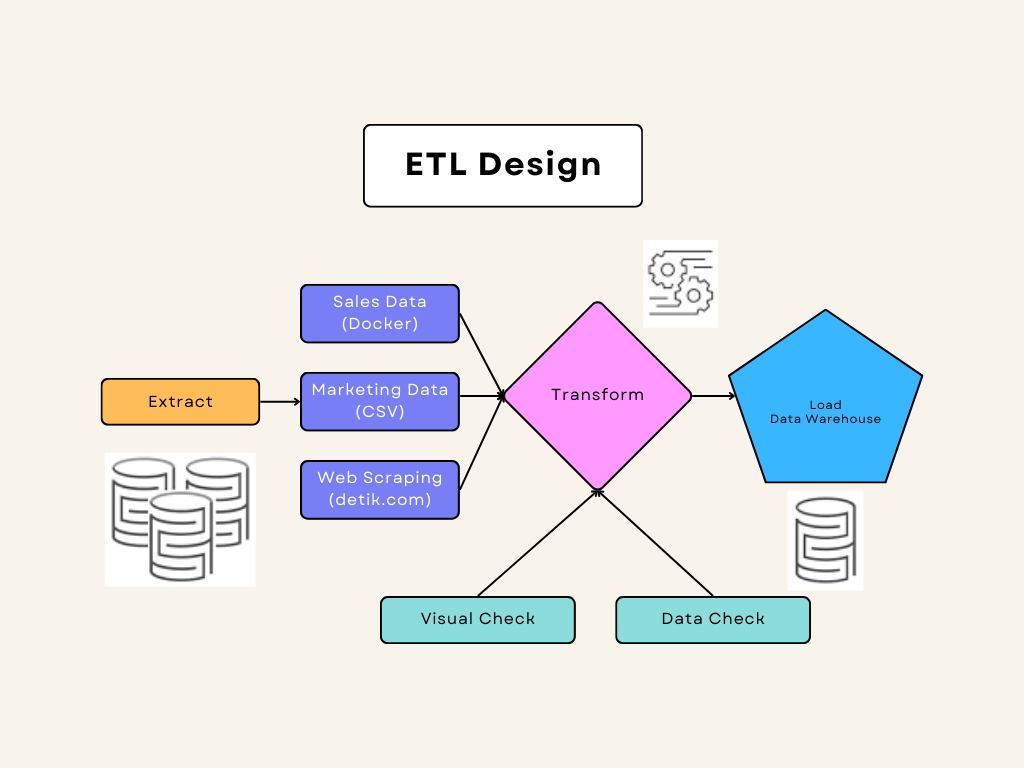
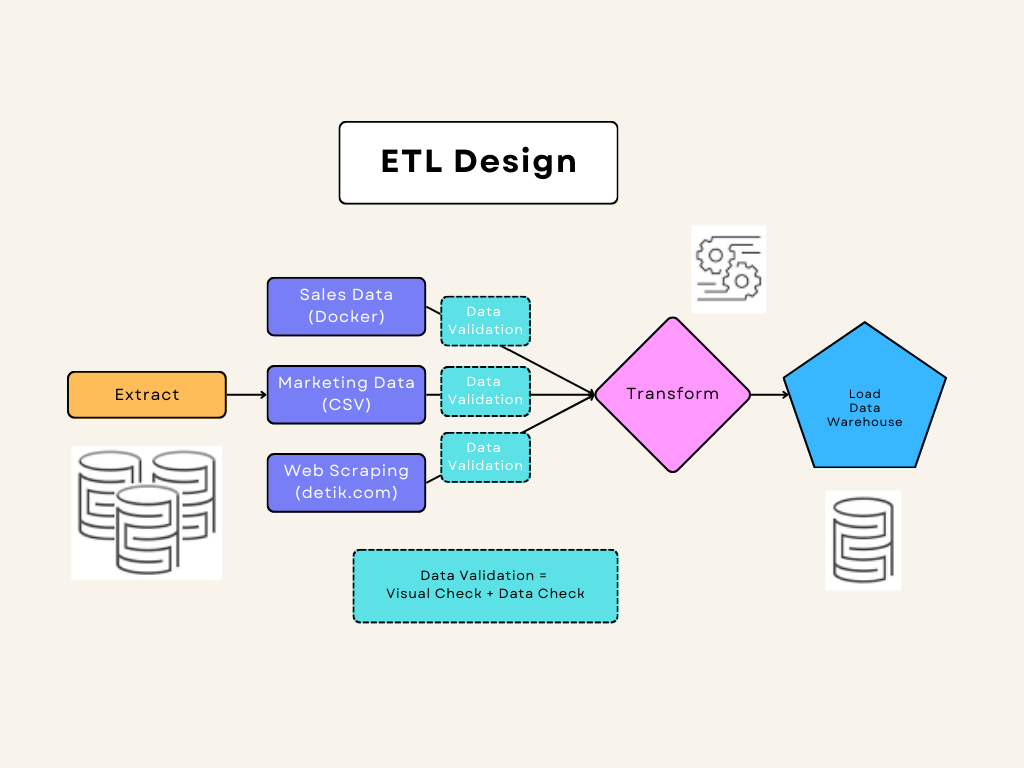
docs: :camera_flash:

diff --git a/readme.md b/readme.md
@@ -122,30 +122,50 @@ The Data Science Team needs article data from Detik for news trend and popularit
 ## Tools & Stack
 
 - **Python Libraries:**
-  - `Pandas` for data manipulation
-  - `SQLAlchemy` for database interaction
+  - `pandas` for data manipulation
+  - `sqlalchemy` for database interaction
   - `pangres` for upserting data
-  - `BeautifulSoup` and `requests` for web scraping
-  - `tqdm` for progress bars
+  - `beautifulsoup4` for web scraping
+  - `requests` for HTTP requests
+  - `psycopg2-binary` and `psycopg2` for PostgreSQL connection
+  - `python-dotenv` for environment variable management
+  - `datetime` for handling date and time operations
   - `luigi` for task orchestration
+  - `os` for operating system interactions
 
 - **Docker:** Runs the PostgreSQL database in a container.
 - **PostgreSQL:** Target database for storing data.
 
 ## Pipeline Design
 
+![Simple ETL Pipeline](Simple%20ETL%20Pipeline.png)
+
 1. **Extract**
    - Sales Data: From PostgreSQL database
    - Marketing Data: From CSV file
    - Web Articles: From Detik.com via web scraping
 
-2. **Transform**
-   - Clean and format sales data
-   - Normalize and de-duplicate marketing data
-   - Extract relevant fields from scraped articles
+2. **Validate**
+   - **Sales Data:** Check for inconsistencies, missing values, remove blank columns and correct formats.
+   - **Marketing Data:** Ensure data integrity, format consistency, remove blank columns and correctness.
+   - **Web Scraping Data:** Validate the completeness and accuracy of the scraped articles.
 
-3. **Load**
-   - Insert/Update all transformed data into PostgreSQL
+3. **Transform**
+   - **Sales Data:**
+     - Drop unnamed columns
+     - Clean price fields (remove symbols, convert to numeric)
+     - Fill missing values in price fields with 0
+   - **Marketing Data:**
+     - Remove 'prices.' prefix from column names
+     - Normalize availability (e.g., "Yes" to "In Stock")
+     - Remove duplicates
+   - **Web Scraping Data:**
+     - Extract and save article titles, categories, URLs, and publication dates
+
+4. **Load**
+   - **Sales Data:** Insert/Update into PostgreSQL
+   - **Marketing Data:** Insert/Update into PostgreSQL
+   - **Web Scraping Data:** Insert/Update into PostgreSQL
 
 ## Pipeline Execution
 
